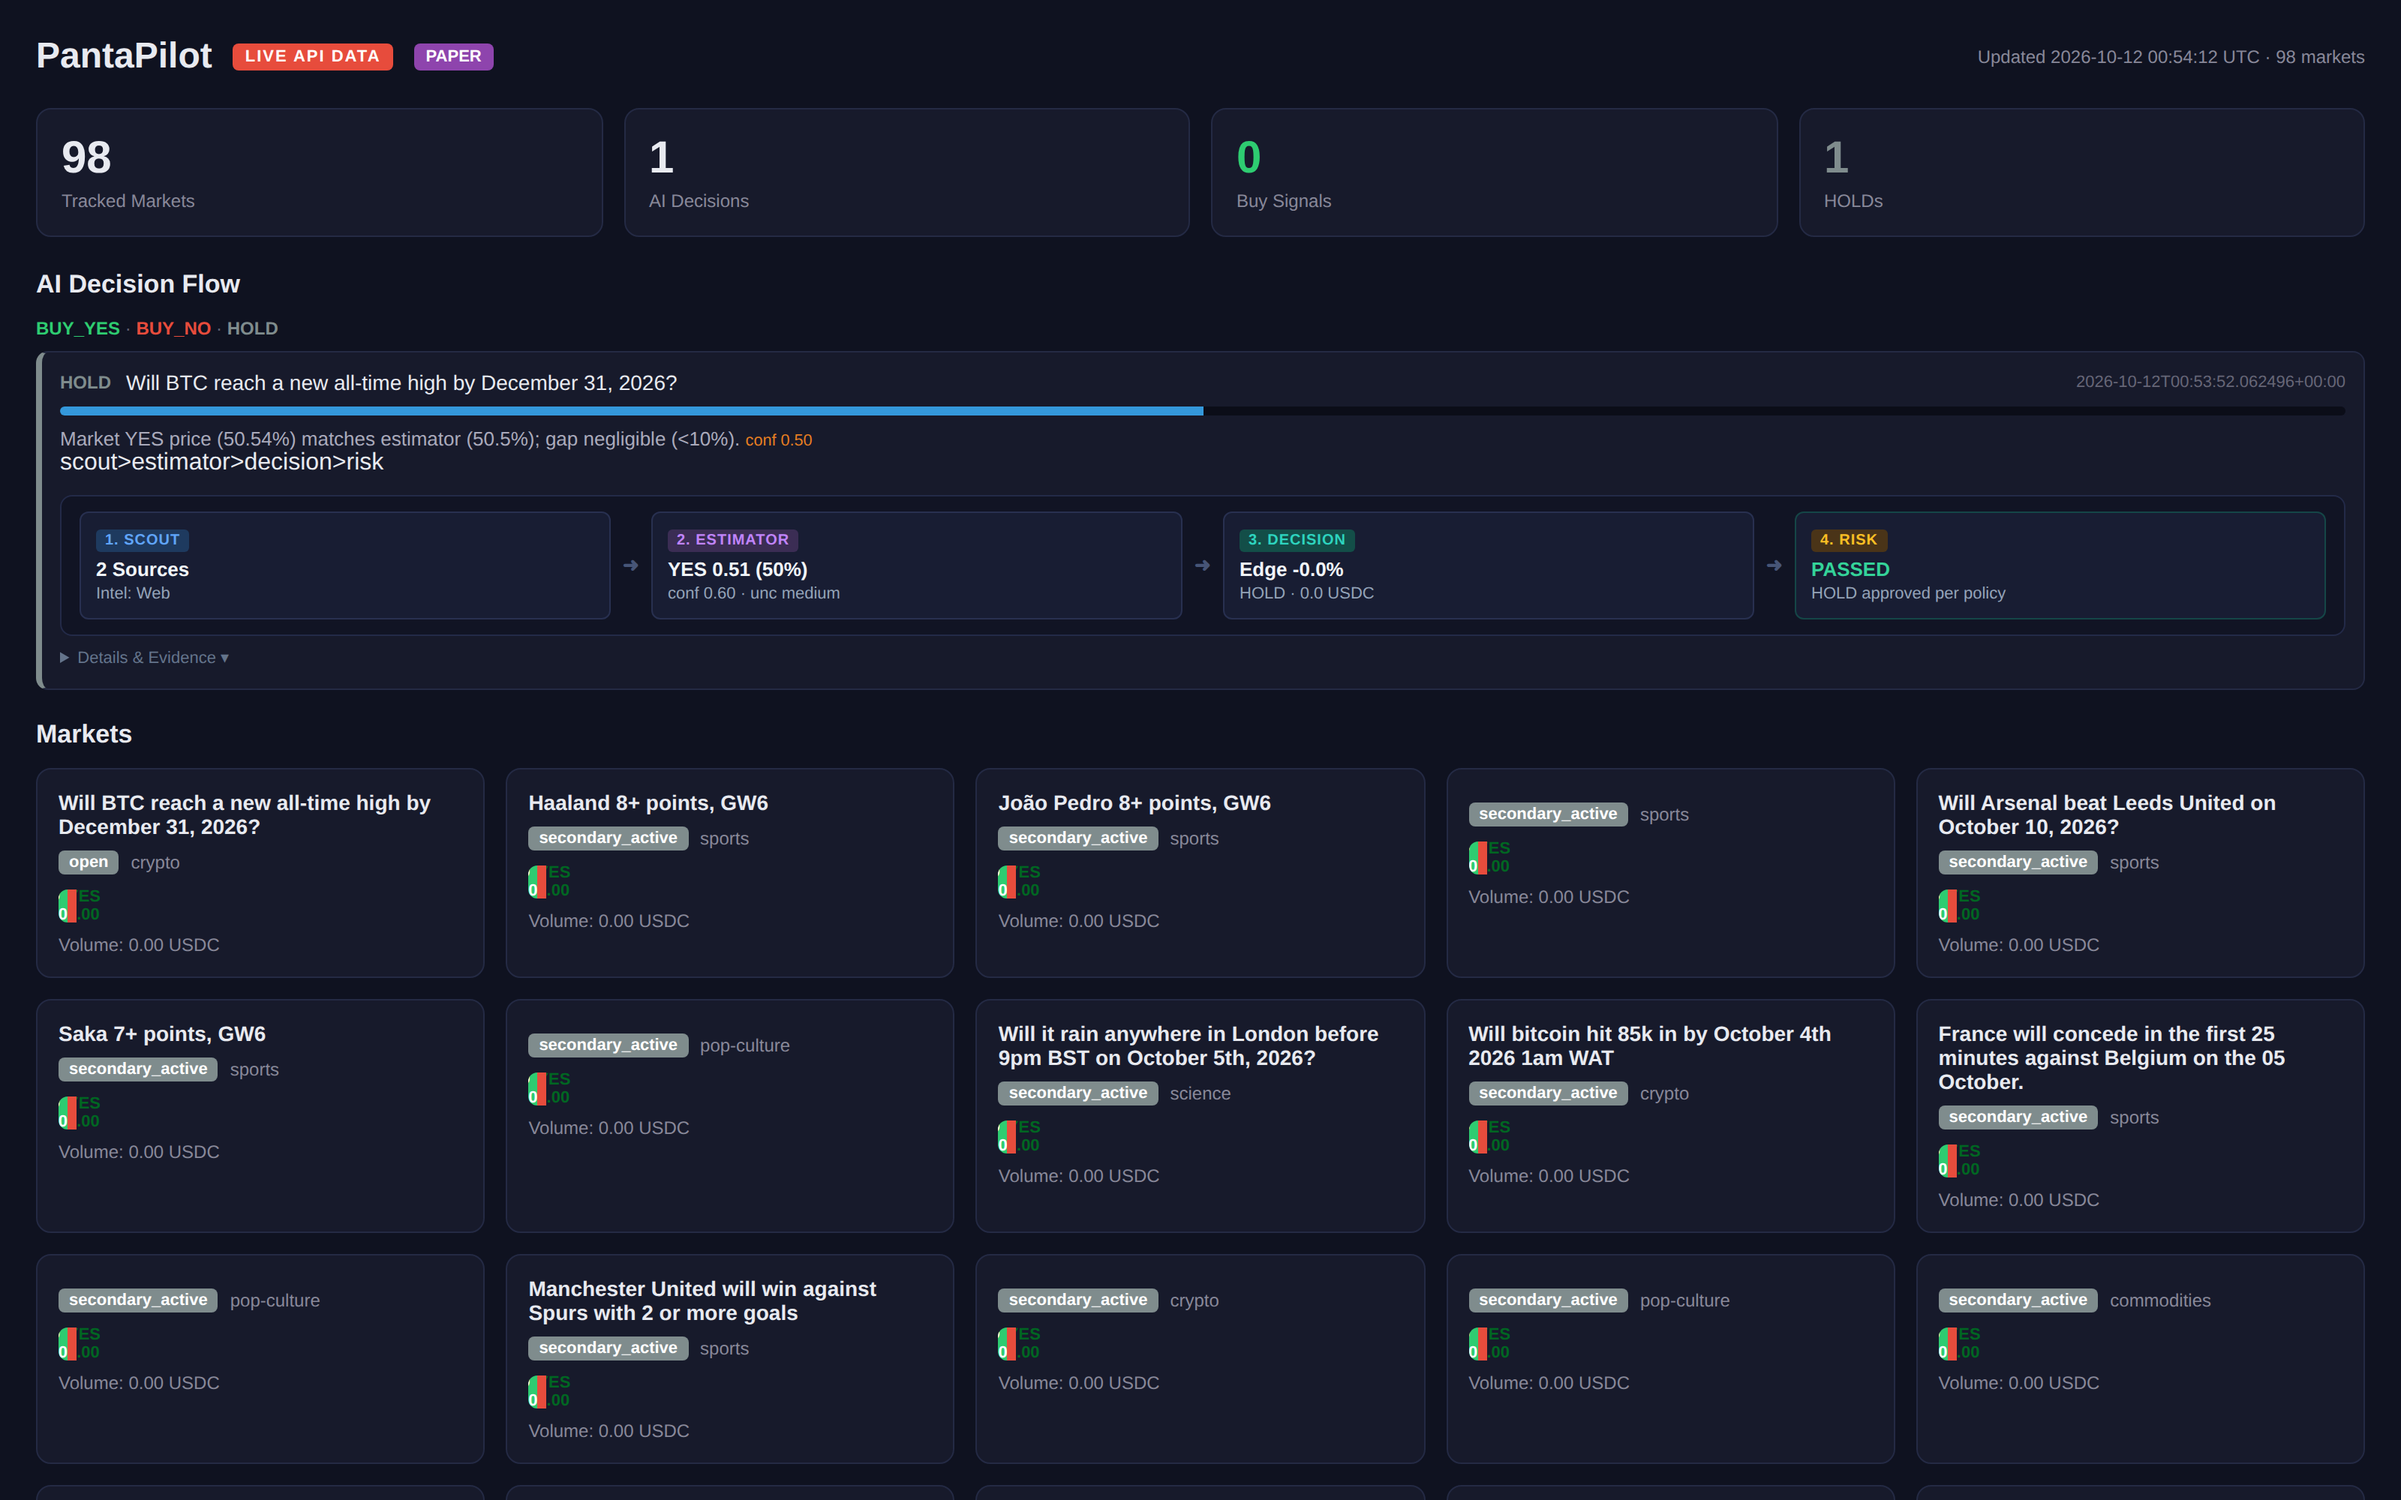
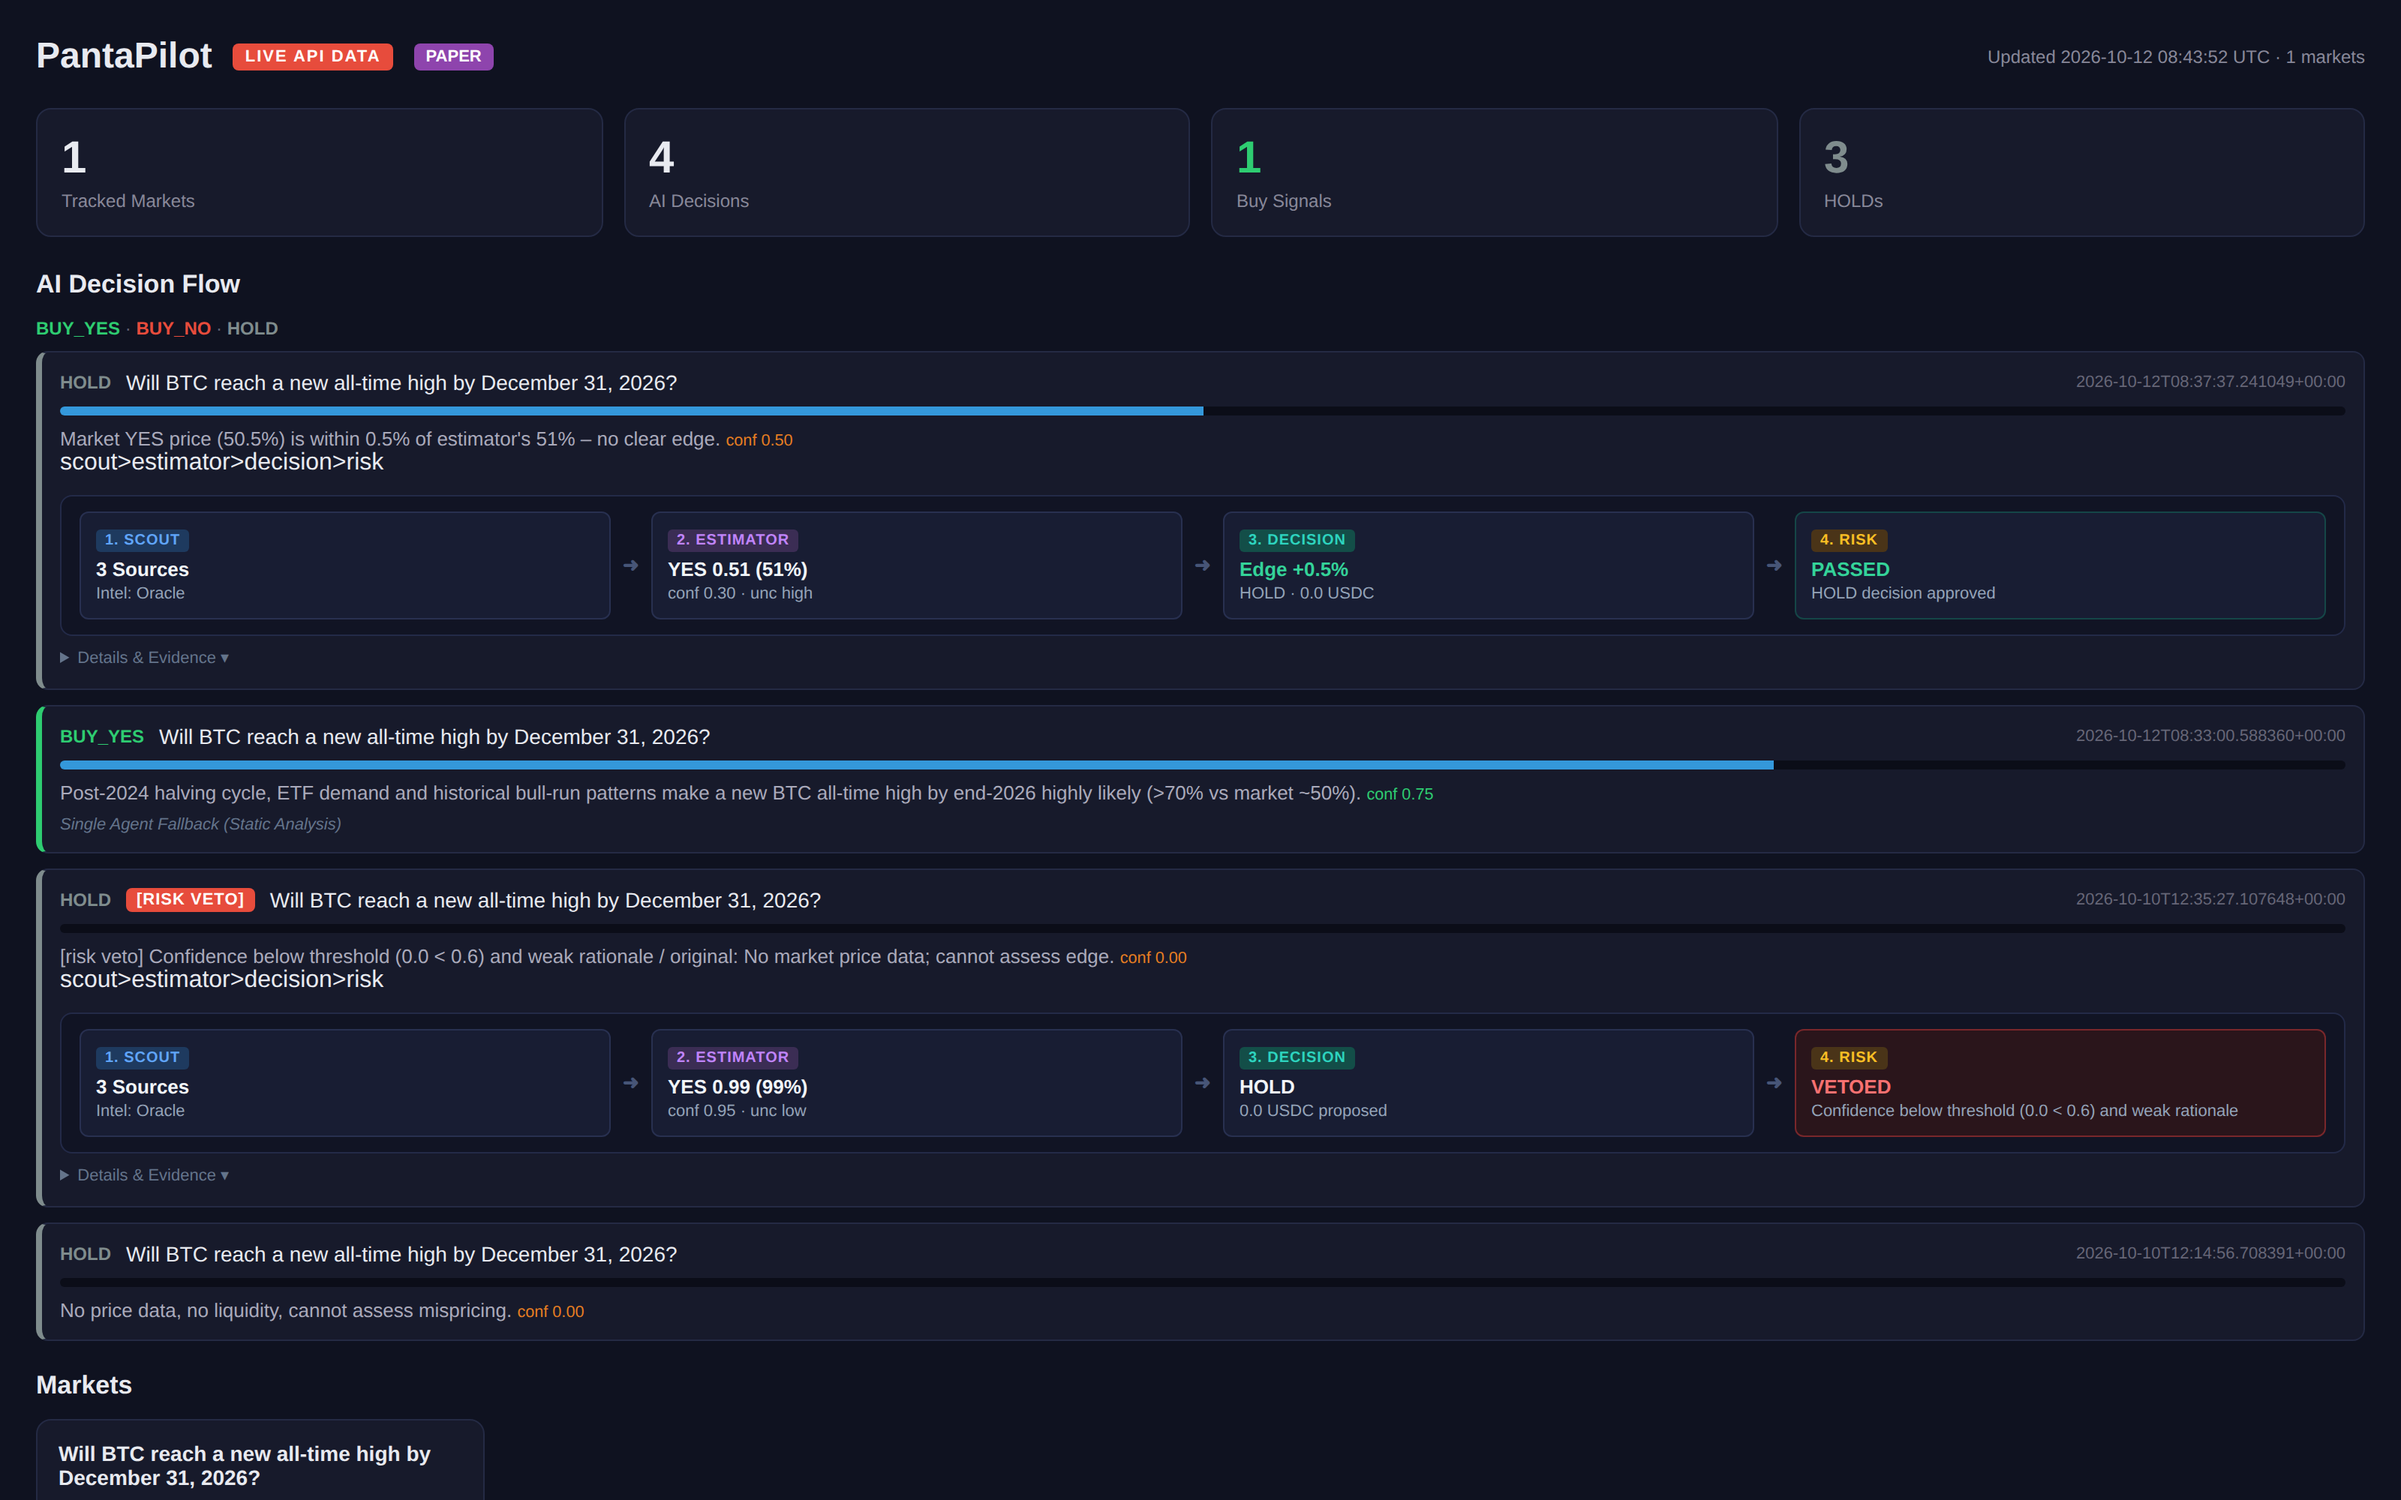
dashboard: rebuild from a real, curated live run
Ran the full pipeline against the live Panta API in DRY_RUN mode and rebuilt the
dashboard from that run's log.

The log had accumulated entries from three sources. Five analysis records were
hand-written sample markets that do not exist on Panta (Premier League, NBA,
Chess, CS2, Haaland). Showing a sportsbook next to a venue that has exactly one
tradeable market would misrepresent the product, so curate_demo_log.py now keeps
only analyses whose market id is present in the live API, archives the original,
and reports how many decisions came from the real four-agent pipeline versus a
degraded single-agent fallback.

Also adds render_now.py to refresh the dashboard from the existing log without
placing orders, so the demo can be re-shot on demand.

diff --git a/curate_demo_log.py b/curate_demo_log.py
@@ -1,0 +1,124 @@
+"""Build a demo log containing ONLY entries backed by the live Panta API.
+
+The dashboard reads logs/pantapilot.jsonl. That file accumulated entries from
+three different sources over three days:
+
+  * 2026-10-12  real runs against live-api.panta.market (BTC market)
+  * 2026-10-11  hand-written sample markets that DO NOT exist on Panta
+                (Premier League / NBA / Chess / CS2) - used as video filler
+  * 2026-10-10  early smoke runs
+
+Showing the synthetic ones next to real data would misrepresent the venue: a
+judge who checks Panta finds exactly one tradeable market, not a sportsbook.
+
+This script writes logs/pantapilot.jsonl containing only records whose market
+id is present in the live API, and archives the original alongside it.
+
+    python3 curate_demo_log.py            # dry run, prints what it would do
+    python3 curate_demo_log.py --write    # actually rewrite the log
+"""
+from __future__ import annotations
+
+import argparse
+import json
+import shutil
+import sys
+from datetime import datetime, timezone
+from pathlib import Path
+
+import logging
+
+from panta import PantaClient
+
+logging.basicConfig(level=logging.WARNING)
+logging.getLogger("httpx").setLevel(logging.WARNING)
+logging.getLogger("httpcore").setLevel(logging.WARNING)
+
+LOG = Path(__file__).with_name("logs") / "pantapilot.jsonl"
+
+
+def load_records(path: Path) -> list[dict]:
+    out: list[dict] = []
+    for line in path.read_text(encoding="utf-8", errors="ignore").splitlines():
+        line = line.strip()
+        if not line:
+            continue
+        try:
+            out.append(json.loads(line))
+        except json.JSONDecodeError:
+            continue
+    return out
+
+
+def main() -> int:
+    ap = argparse.ArgumentParser()
+    ap.add_argument("--write", action="store_true", help="rewrite the log in place")
+    args = ap.parse_args()
+
+    if not LOG.exists():
+        print(f"no log at {LOG}")
+        return 1
+
+    client = PantaClient()
+    live = client.primary_markets()
+    live_ids = {
+        str(m.get("marketId") or m.get("id") or "")
+        for m in live
+        if (m.get("marketId") or m.get("id"))
+    }
+    print(f"live Panta market ids ({len(live_ids)}): {sorted(live_ids)}")
+
+    records = load_records(LOG)
+    print(f"total records: {len(records)}")
+
+    # Keep: non-analysis events from today, plus analyses whose market is real.
+    today = datetime.now(timezone.utc).strftime("%Y-%m-%d")
+    kept: list[dict] = []
+    dropped_titles: set[str] = set()
+    fallback_count = 0
+    full_pipeline_count = 0
+
+    for r in records:
+        ev = r.get("event")
+        if ev == "analysis":
+            mid = str(r.get("marketId") or "")
+            if mid in live_ids:
+                kept.append(r)
+                pipeline = ((r.get("decision") or {}).get("evidence") or {}).get("pipeline")
+                if pipeline == "fallback_single_agent":
+                    fallback_count += 1
+                elif pipeline == "scout>estimator>decision>risk":
+                    full_pipeline_count += 1
+            else:
+                dropped_titles.add(str(r.get("title"))[:60])
+            continue
+        # start / trade events: keep only today's, so the demo shows one session
+        if str(r.get("ts", "")).startswith(today):
+            kept.append(r)
+
+    print(f"keeping {len(kept)} records; dropping {len(dropped_titles)} synthetic markets:")
+    for t in sorted(dropped_titles):
+        print("   -", t)
+    print()
+    print(f"  full four-agent pipeline decisions : {full_pipeline_count}")
+    print(f"  degraded single-agent decisions    : {fallback_count}")
+    if fallback_count:
+        print("  (degraded runs are kept and labelled; they must not be shown as consensus)")
+
+    if not args.write:
+        print("\n(dry run - pass --write to apply)")
+        return 0
+
+    backup = LOG.with_suffix(".jsonl.bak-"
+                             + datetime.now(timezone.utc).strftime("%Y%m%d%H%M%S"))
+    shutil.copy2(LOG, backup)
+    with LOG.open("w", encoding="utf-8") as fh:
+        for r in kept:
+            fh.write(json.dumps(r, ensure_ascii=False) + "\n")
+    print(f"\nwrote {len(kept)} records to {LOG}")
+    print(f"original archived at {backup}")
+    return 0
+
+
+if __name__ == "__main__":
+    sys.exit(main())

diff --git a/render_now.py b/render_now.py
@@ -1,0 +1,50 @@
+"""Regenerate the dashboard HTML from the current JSONL log against the live
+Panta market list, without placing any orders.
+
+This is the same render path main.py uses, extracted so the dashboard can be
+refreshed on demand for the demo recording.
+"""
+from __future__ import annotations
+
+import logging
+import sys
+
+import config
+from dashboard import render_dashboard
+from logger import JsonlLogger
+from panta import PantaClient
+
+logging.basicConfig(level=logging.INFO, format="%(asctime)s %(levelname)s: %(message)s")
+logging.getLogger("httpx").setLevel(logging.WARNING)
+logging.getLogger("httpcore").setLevel(logging.WARNING)
+
+
+def main() -> int:
+    client = PantaClient()
+    markets = client.primary_markets()
+    logger = JsonlLogger()
+
+    records = logger.read_all()
+    analyses = [r for r in records if r.get("event") == "analysis"]
+    holds = [r for r in analyses if (r.get("decision") or {}).get("decision") == "HOLD"]
+    buys = [
+        r for r in analyses
+        if (r.get("decision") or {}).get("decision") in ("BUY_YES", "BUY_NO")
+    ]
+
+    stats = {
+        "markets": len(markets),
+        "analyzed": len(analyses),
+        "buy_signals": len(buys),
+        "holds": len(holds),
+        "trades": 0,
+    }
+    print("stats:", stats)
+
+    render_dashboard(logger, stats, markets=markets)
+    print("dashboard rendered (DRY_RUN=%s)" % config.DRY_RUN)
+    return 0
+
+
+if __name__ == "__main__":
+    sys.exit(main())
